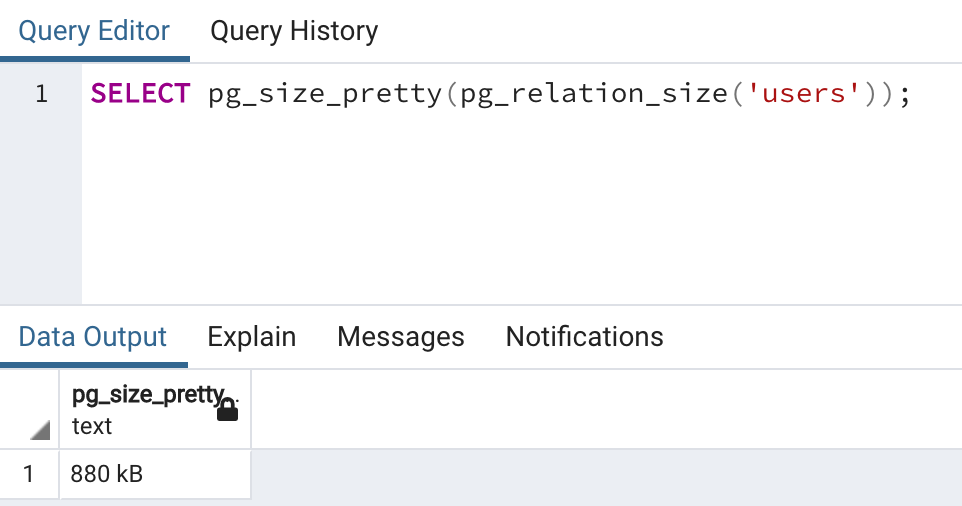
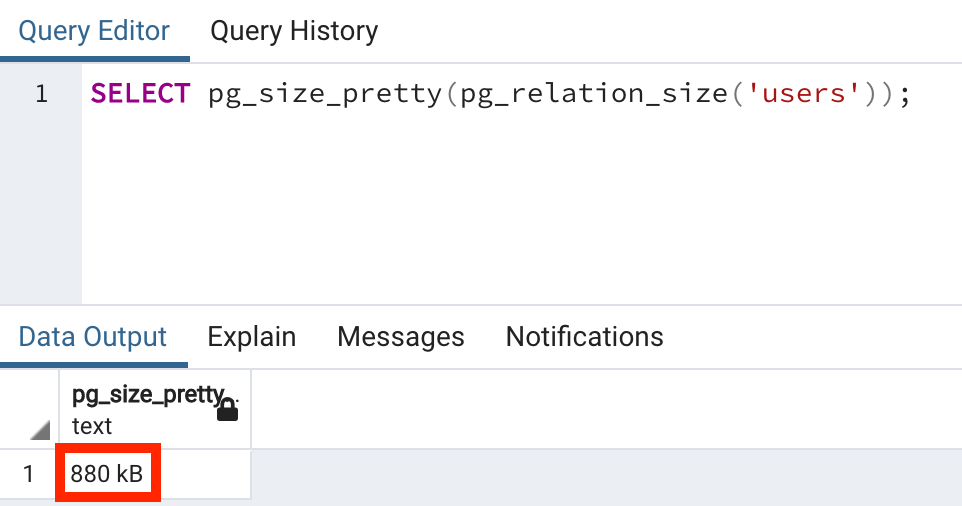
Index 완성

Changed region(s): [[0.0312, 0.8597, 0.1871, 1.0]]

diff --git a/database/index/README.md b/database/index/README.md
@@ -1,4 +1,12 @@
-# Index란 무엇일까?
+# Database Index란?
+
+[Tistory 블로그 포스팅 바로가기](https://seunghyunson.tistory.com/19)
+
+이번에는 데이터베이스를 다룰 때 정말 중요한 역할을 하는 Index에 대해 다뤄보겠습니다.
+
+실제로 실무에서 서비스를 운영하면서 생기는 장애들을 Index를 적용하여 해결하는 경우가 많습니다.
+
+그렇다면 Index가 무엇인지, 장/단점은 무엇인지 등에 대해 알아보겠습니다.
 
 1. Full Table Scan
 2. Index 동작 원리
@@ -18,13 +26,13 @@ FROM users
 WHERE username = 'jamessoun93';
 ```
 
-위 쿼리는 `users` 테이블 내 존재하는 모든 데이터 중 `username` 컬럼값이 `jamessoun93`인 데이터를 반환하는 쿼리입니다.
+위 쿼리는 `users` 테이블 내 존재하는 모든 데이터 중 `username` 컬럼 값이 `jamessoun93`인 데이터를 반환하는 쿼리입니다.
 
-이런 쿼리를 실행할 때 Postgres 내부에서는 어떤일이 일어날까요?
+이런 쿼리를 실행할 때 Postgres 내부에서는 어떤 일이 일어날까요?
 
 제가 이전에 작성한 [Postgres는 데이터를 어디에 어떤 형태로 저장할까?](https://seunghyunson.tistory.com/16) 하단의 **Postgres는 데이터를 어떤 형태로 저장할까?** 파트를 보면, 테이블 하나에 대한 데이터는 하나의 **Heap File**로 저장된다는 것을 알 수 있습니다.
 
-하지만 해당 테이블의 전체 데이터는 여러개의 **Block**으로 그룹지어져 저장되어 있는 형태이기 때문에 Postgres가 바로 **Heap File**에 접근해서 스캔을 시작할 수 없습니다.
+하지만 해당 테이블의 전체 데이터는 여러 개의 **Block**으로 그룹 지어져 저장되어 있는 형태이기 때문에 Postgres가 바로 **Heap File**에 접근해서 스캔을 시작할 수 없습니다.
 
 그래서 스캔할 대상이 되는 모든 데이터를 메모리에 모아놓고 메모리에서 순차적으로 하나하나 확인을 하면서 원하는 데이터를 찾습니다. (아래 다이어그램 확인)
 
@@ -32,9 +40,9 @@ WHERE username = 'jamessoun93';
 
 Heap 파일로부터 모든 데이터를 메모리로 옮겨 데이터 하나하나 원하는 조건에 맞는지 확인하는 작업이 바로 **Full Table Scan**입니다.
 
-메모리로 옮겨야할 데이터가 많으면 많을수록 전체적인 비용이 커지고 성능에 영향을 주는 작업입니다.
+메모리로 옮겨야 할 데이터가 많으면 많을수록 전체적인 비용이 커지고 성능에 영향을 주는 작업입니다.
 
-그러므로 꼭 **Full Table Scan**이 필요한지에 대한 고민이 필요하고 더 성능 효율적인 방법이 존재한다면 다른 방법을 선택할 수 있어야합니다.
+그러므로 꼭 **Full Table Scan**이 필요한지에 대한 고민이 필요하고 더 성능 효율적인 방법이 존재한다면 다른 방법을 선택할 수 있어야 합니다.
 
 ---
 
@@ -46,7 +54,7 @@ FROM users
 WHERE username = 'jamessoun93';
 ```
 
-그렇다면 위와 같은 쿼리를 날릴 때 매번 메모리에 데이터를 로드한 뒤 Full Table Scan을 하는것이 아니라, 내가 원하는 데이터가 정확하게 어떤 Block의 몇번째 인덱스에 존재하는지 알려줄 수 있는 방법은 없을까요?
+그렇다면 위와 같은 쿼리를 날릴 때 매번 메모리에 데이터를 로드한 뒤 Full Table Scan을 하는것이 아니라, 내가 원하는 데이터가 정확하게 어떤 Block의 몇 번째 인덱스에 존재하는지 알려줄 수 있는 방법은 없을까요?
 
 **Index**를 활용하면 가능합니다.
 
@@ -55,9 +63,9 @@ WHERE username = 'jamessoun93';
 데이터베이스 Index는 요청한 데이터가 어떤 Block의 몇 번째 인덱스에 존재하는지를 알려주는 자료구조입니다.
 
 인덱스는 내가 찾고자 하는 데이터를 담고 있는 **컬럼**을 기준으로 생성합니다.  
-해당 컬럼값을 찾을 때 속도 효율을 높여주기 위해서죠.
+해당 컬럼 값을 찾을 때 속도 효율을 높여주기 위해서죠.
 
-그래서 인덱스 사용을 고려할 때 가장 첫 번째로 해야할 것이 어떤 컬럼을 기준으로 인덱스를 생성할건지 정하는 것입니다.
+그래서 인덱스 사용을 고려할 때 가장 첫 번째로 해야 할 것이 어떤 컬럼을 기준으로 인덱스를 생성할 건지 정하는 것입니다.
 
 그렇다면 인덱스가 내부적으로 어떻게 생성되고 어떻게 사용되는지 보겠습니다.
 
@@ -98,9 +106,9 @@ Heap File에서 Block 마다 존재하는 데이터(row)마다 확인하면서 `
 
 **leaf node**들만 확인해도 왼쪽에서 오른쪽으로 기존의 정렬 상태를 그대로 유지하는 것을 확인할 수 있습니다. (여기서는 알파벳순)
 
-그런뒤 **root node**에는 조건에 따라 방향을 말해주는 **helper를** 추가합니다.
+그런 뒤 **root node**에는 조건에 따라 방향을 말해주는 **helper를** 추가합니다.
 
-**Root node**의 **helper는** 어떤 **leaf node**를 확인해야하는지 알려줘서, 조건에 맞는 데이터를 담고 있는 **leaf node**만 확인하면되게 해줍니다. (다른 **leaf node**를 확인할 필요가 없게 해준다는 뜻이죠.)
+**Root node**의 **helper는** 어떤 **leaf node**를 확인해야 하는지 알려줘서, 조건에 맞는 데이터를 담고 있는 **leaf node**만 확인하면 되게 해줍니다. (다른 **leaf node**를 확인할 필요가 없게 해준다는 뜻이죠.)
 
 ## Index 동작 과정
 
@@ -120,7 +128,7 @@ Heap File에서 Block 마다 존재하는 데이터(row)마다 확인하면서 `
 
 그리고 해당 **leaf node**에서 찾는 데이터가 **heap file**의 **Block 1**에 있다는 사실을 알고 **Block 0**는 확인할 필요도 없이 원하는 데이터를 찾을 수 있는 것이죠.
 
-**Full Table Scan**처럼 원하는 데이터를 찾을때까지 모든 데이터를 메모리에 로드한 뒤 하나하나 확인하는 방식보다 훨씬 빠를 수 밖에 없겠죠?
+**Full Table Scan**처럼 원하는 데이터를 찾을 때까지 모든 데이터를 메모리에 로드한 뒤 하나하나 확인하는 방식보다 훨씬 빠를 수밖에 없겠죠?
 
 ---
 
@@ -133,44 +141,56 @@ Heap File에서 Block 마다 존재하는 데이터(row)마다 확인하면서 `
 CREATE INDEX ON 테이블명 (컬럼명);
 ```
 
-(!!!!!!!!!!!!!!여기부터 수정필요)
+생성된 인덱스명은 default로 `테이블명_컬럼명_idx`의 형태로 생성됩니다.
 
-`users_username_idx`라는 이름으로 인덱스가 생성됨.
+아래 명령어를 입력하면 `users_username_idx`라는 이름으로 인덱스가 생성됩니다.
 
-인덱스 삭제하려면
+```sql
+CREATE INDEX ON users (username);
+```
+
+인덱스 삭제하는 문법은 아래와 같습니다.
 ```sql
 DROP INDEX users_username_idx;
 ```
 
-실제로 인덱스를 사용하면 속도가 빨라지는지 테스트 해보기
+`username` 컬럼에 대한 인덱스를 생성했으니 실제로 인덱스를 사용하면 속도가 빨라지는지 테스트해보겠습니다.
 
-`users` 테이블에 총 5340개의 데이터가 있고
+현재 5340개의 데이터가 있는 `users` 테이블을 기준으로 아래 쿼리를 실행해 테스트를 진행합니다.
 
-인덱스 없이
+```sql
+EXPLAIN ANALYZE SELECT *
+FROM users
+WHERE username = 'Jamessoun93';
+```
+
+`username` 컬럼 인덱스 없이 실행한 결과
 
 ![7](./images/7.png)
 
-인덱스 있이
+`username` 컬럼 인덱스를 생성한 뒤 실행한 결과
 
 ![8](./images/8.png)
 
-여기서는 약 29배정도 빠름
+이렇게 간략히 진행한 테스트에서 약 29배 정도의 속도 차이가 나는 것을 확인할 수 있습니다.
 
 ---
 
 # Index 단점
 
-그럼 매번 사용하면 되지 않을까?
+인덱스를 사용하면 이렇게 빨라지는데 모든 컬럼에 생성해서 사용하면 되지 않을까? 하는 생각을 할 수도 있습니다.
 
-크게 도움이 되지 않거나 오히려 비효율적인 경우도 있음.
+하지만 인덱스는 크게 도움이 되지 않거나 오히려 비효율적인 경우도 존재하기 때문에 항상 사용하는 것은 비효율적일 수 있습니다.
+
+언제 인덱스 사용이 도움이 되지 않거나 비효율적일까요?
 
 ## 1. 저장공간
 
-인덱스도 마찬가지로 컴퓨터의 저장 공간을 사용함.
+인덱스도 마찬가지로 컴퓨터의 저장 공간을 사용합니다.
 
-실제로 얼마나 잡아먹는지 확인도 할 수 있음.
+실제로 얼마나 사용하는지 확인할 수도 있습니다.
 
-우선 `users` 테이블이 얼마만큼의 공간을 사용하고 있는지 확인해보자.
+우선 `users` 테이블이 얼마만큼의 공간을 사용하고 있는지 확인해보겠습니다.
 
 ```sql
 SELECT pg_size_pretty(pg_relation_size('users'));
@@ -178,29 +198,64 @@ SELECT pg_size_pretty(pg_relation_size('users'));
 
 ![9](./images/9.png)
 
-인덱스는?
+그렇다면 `users` 테이블에 생성한 `username` 인덱스는 얼마만큼의 공간을 사용하고 있을까요?
+
 ```sql
 SELECT pg_size_pretty(pg_relation_size('users_username_idx'));
 ```
 
 ![10](./images/10.png)
 
-880kb 와 184kb 정도면 뭐 얼마되지도 않고 좋네~ 
+**880kb** 와 **184kb** 정도면 크기도 작고 괜찮겠네!...
 
-할 수 있지만 엄청나게 많은 데이터를 핸들링하는 서비스라서 테이블 데이터가 880kb가 아니라 80gb라면 인덱스의 크기도 18gb 정도가 될텐데 요즘처럼 데이터베이스도 호스팅해서 비용을 지불하고 사용하는 시대에 과연 저정도 storage에 대한 금액을 매번 내는게 부담스럽지 않을까?
+할 수 있지만 엄청나게 많은 데이터를 핸들링하는 서비스라서 테이블 데이터가 **880kb**가 아니라 **80gb**라면 인덱스의 크기도 **18gb** 정도가 될 텐데, 요즘처럼 데이터베이스도 호스팅 해서 비용을 지불하고 사용하는 시대에 과연 저 정도 storage에 대한 금액을 매번 내는 게 부담스럽지 않을지도 생각해봐야 하는 문제입니다.
 
-결국 인덱스도 저장공간을 차지한다는게 포인트.
+선택의 문제겠지만 결국 인덱스도 저장공간을 잡아먹는다는 점이 포인트입니다.
 
 ## 2. 업데이트
 
-테이블에 데이터가 추가, 업데이트, 삭제될 때마다 인덱스도 업데이트 해줘야 하기때문에 느려질 수 있음. 
+인덱스란 생성시점에 해당 테이블에 존재하는 데이터를 기준으로 생성되기 때문에 테이블에 데이터가 추가, 업데이트, 삭제될 때마다 인덱스도 업데이트해줘야 합니다.
 
-20개의 데이터를 따로따로 INSERT 한다고 가정한다면 인덱스도 20번 업데이트 해줘야한다는 뜻. (performance cost가 무조건 있을 수 밖에 없다.)
+20개의 데이터를 따로따로 INSERT 한다고 가정한다면 인덱스도 20번 업데이트해줘야한다는 뜻이겠죠. 
 
-## 3. 사용 X
+performance cost가 있을 수밖에 없는 작업입니다.
 
-인덱스가 존재한다고해서 Postgres가 꼭 사용하는게 아님.
+## 3. 사용하지 않는 경우
 
-아무 영향이 없음.
+인덱스가 존재한다고 해서 Postgres가 꼭 사용하는 건 아닙니다.
 
-이러이러한 이유들 때문에 빨라보인다고 모든 컬럼에 인덱스를 적용하면 안됨.
+인덱스를 생성했지만 사용하지 않아 아무 영향이 없는 경우도 있습니다.
+
+### 이러이러한 이유들 때문에 빨라 보인다고 모든 컬럼에 인덱스를 적용하는 건 좋지 않은 방법입니다.
+
+---
+
+# 자동 생성 Indexes
+
+DBMS마다 조금씩 차이는 있겠지만, 직접 인덱스를 생성하지 않아도 자동으로 생성되는 경우가 있습니다.
+
+**Postgres**는 **primary key**와 **unique constraint**가 걸려있는 컬럼에 대한 인덱스를 자동으로 생성해주기 때문에 따로 인덱스를 생성해줄 필요가 없습니다.
+
+아래 명령어를 통해 현재 사용하고 있는 DB에 존재하는 모든 인덱스를 확인해보겠습니다.
+
+```sql
+SELECT relname, relkind
+FROM pg_class
+WHERE relkind = 'i';
+```
+
+위 SQL문에서 `pg_class` 테이블은 해당 데이터베이스의 객체들에 대한 정보를 담고 있습니다.  
+테이블, 인덱스, 시퀀스 등등 다양한 (column을 제외한 거의 모든) 데이터를 담고 있습니다.
+
+`relkind = 'i'`의 `i`는 index를 뜻합니다.  
+많은 정보들 중 인덱스만 필터 하겠다는 뜻입니다.
+
+![11](./images/11.png)
+
+`_pkey`로 끝나면 primary key, `_key`로 끝나면 unique constraint에 대한 인덱스라는 뜻입니다.
+
+---
+
+이렇게 Index에 대해 알아봤습니다.
+
+다음에는 인덱스를 활용하여 복잡한 쿼리를 튜닝하는 예시를 들어볼 예정입니다.

diff --git a/README.md b/README.md
@@ -16,7 +16,7 @@ https://seunghyunson.tistory.com
     - [INTERVAL을 이용한 시간 계산하기](database/interval)
     - [Validation & Constraints](database/validation-and-constraints)
     - [Postgres는 데이터를 어떻게 저장할까?](database/how-postgres-stores-data)
-    - [[⚠WIP] Index란 무엇일까?](database/index)
+    - [Database Index란?](database/index)
     - [[⚠WIP] 쿼리 성능 분석하기 (PostgreSQL)](database/analyzing-query-performance(postgres))
 - [Docker](docker)
     - [[Docker #1] Docker 기본 명령어](docker/basic-commands)
